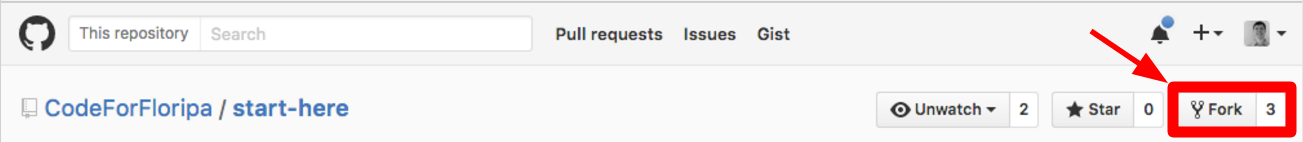
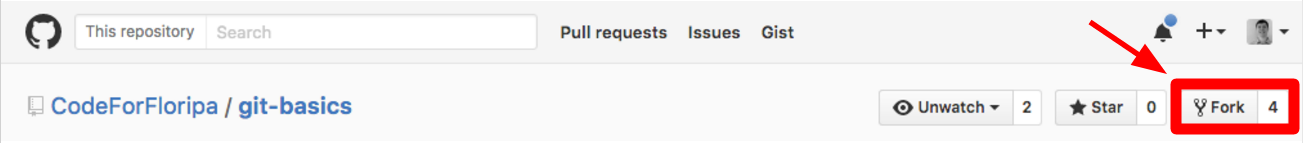
Renamed repo

diff --git a/tutorial-comando.md b/tutorial-comando.md
@@ -9,7 +9,7 @@ Para fazer um fork, clique aqui no botão no "fork" no topo da página:
 
 ![Criando um fork](imgs/fork.png)
 
-Nesse caso, meu usuário se chama ebonet. Agora você posso acessar seu repositório em github.com/ebonet/start-here.
+Nesse caso, meu usuário se chama ebonet. Agora você posso acessar seu repositório em github.com/seuusuario/git-basics.
 
 ![Forked repo](imgs/ebonet-fork.png)
 
@@ -22,8 +22,8 @@ Depois do passo 1, você tem uma cópia do repositório totalmente sua, mas como
 ou seja, copiar para o seu computador. Para isso, digite os seguintes comandos:
 
 ```
-git clone http://github.com/{seuusuario}/start-here
-cd start-here
+git clone http://github.com/{seuusuario}/git-basics
+cd git-basics
 ```
 
 ## Passo 3: Fazendo modificações
@@ -58,7 +58,7 @@ Porém, esse commit por enquanto só está salvo localmente. Para mandá-lo ao s
 git push
 ```
 
-Agora acesse a sua versão do repositório (`github.com/seuusuario/start-here`), abra o arquivo README.md no site 
+Agora acesse a sua versão do repositório (`github.com/seuusuario/git-basics`), abra o arquivo README.md no site 
 e você verá sua alteração ali \o/.
 
 ## Passo 5: Fazendo um Pull Request 

diff --git a/README.md b/README.md
@@ -34,7 +34,7 @@ Tendo escolhido o projeto, abra o arquivo CONTRIBUTING.md localizado na pasta ra
 clonar o projeto, como fazer o setup, convensões do time e outras coisas mais. É essencial que esse arquivo seja lido
 com muita atenção.
 
-Normalmente, adicionamos a lista de coisas a fazer nas **Issues** de cada projeto, as desse projeto estão [aqui](https://github.com/CodeForFloripa/start-here/issues). 
+Normalmente, adicionamos a lista de coisas a fazer nas **Issues** de cada projeto, as desse projeto estão [aqui](https://github.com/CodeForFloripa/git-basics/issues). 
 
 # Encontrou algum erro em alguns dos tutoriais, algo a ser melhorado?
 
